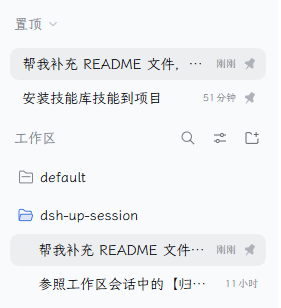
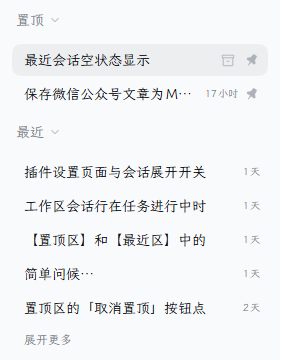
docs: 更新 README 截图并并排展示设置界面

diff --git a/README.en.md b/README.en.md
@@ -5,7 +5,8 @@
 A simple DeepSeek Harness sidebar plugin: it inserts two sections, "Pinned" and "Recent", above the "Workspaces" list, gathering pinned sessions from all workspaces into one place and collecting your latest sessions into another.
 
 <p align="center">
-  <img src="./assets/screenshot.png" alt="The sidebar showing the Pinned and Recent sections above the Workspaces list">
+  <img src="./assets/screenshot.png" width="32%" alt="The sidebar showing the Pinned and Recent sections above the Workspaces list">
+  <img src="./assets/settings.png" width="64%" alt="The plugin settings popup with toggles for Show Pinned, Show Recent, and Reveal the session in its workspace">
 </p>
 
 ## Pinned section

diff --git a/README.md b/README.md
@@ -5,7 +5,8 @@
 一个简单的 DeepSeek Harness 侧边栏插件：在「工作区」列表上方插入「置顶」和「最近」两个区，把分散在各个工作区里的置顶会话汇总到一处，也把最近的会话收拢到一处。
 
 <p align="center">
-  <img src="./assets/screenshot.png" alt="侧边栏「工作区」列表上方依次显示置顶区与最近区">
+  <img src="./assets/screenshot.png" width="32%" alt="侧边栏「工作区」列表上方依次显示置顶区与最近区">
+  <img src="./assets/settings.png" width="64%" alt="插件设置弹窗，包含显示置顶、显示最近和展开工作区中的原会话三个开关">
 </p>
 
 ## 置顶区
